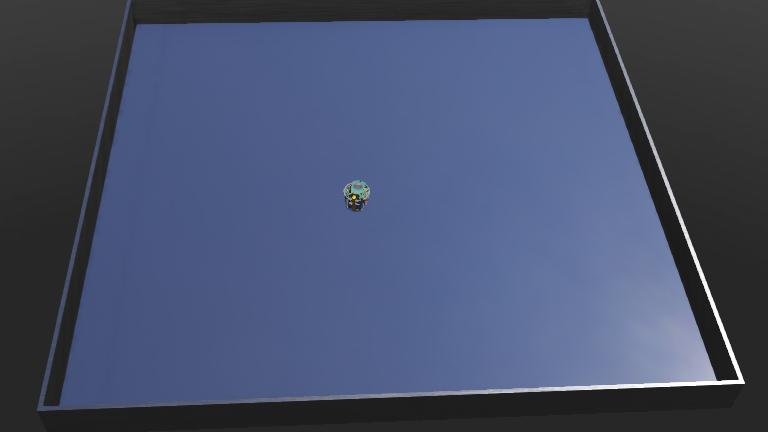
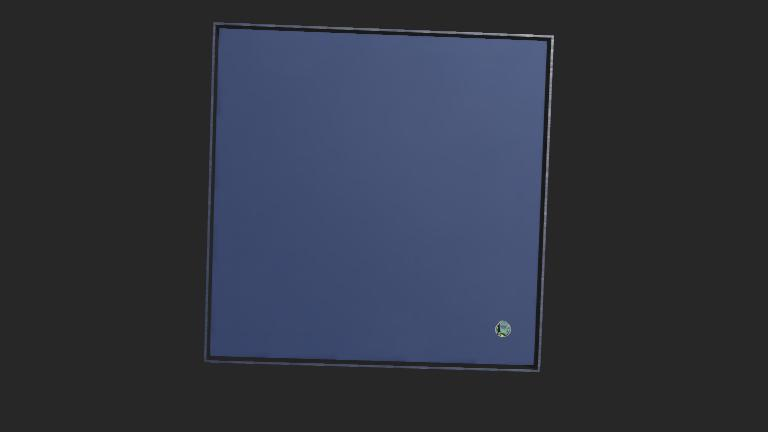
feat: turn towards goal

diff --git a/Projects/Project1/controllers/q1b/q1b.py b/Projects/Project1/controllers/q1b/q1b.py
@@ -49,6 +49,46 @@ class Controller(Robot):
         self.keyboard = self.getKeyboard()
         self.keyboard.enable(self.timeStep)
 
+
+    def turn_towards_goal(self):
+        # Get the current GPS coordinates
+        gps_values = self.gps.getValues()
+
+        # Calculate the angle between the current orientation and the direction to the goal
+        angle_to_goal = math.atan2(GOAL[1] - gps_values[1], GOAL[0] - gps_values[0])
+
+        # Get the current velocity vector
+        current_velocity = self.gps.getSpeedVector()
+
+        # Calculate the angle of the current velocity vector
+        current_angle = math.atan2(current_velocity[1], current_velocity[0])
+
+        # Calculate the angle difference between the current orientation and the goal
+        angle_difference = angle_to_goal - current_angle
+
+        # Use proportional control to adjust the velocities
+        angular_velocity = 2 * angle_difference
+
+        # Calculate the adjusted velocities
+        left_velocity = MAX_SPEED - angular_velocity
+        right_velocity = MAX_SPEED + angular_velocity
+        dist = math.sqrt( pow(gps_values[0] - GOAL[0], 2) + pow(gps_values[1] - GOAL[1],2))
+        if left_velocity > MAX_SPEED:
+            left_velocity = MAX_SPEED
+        if right_velocity > MAX_SPEED:
+            right_velocity = MAX_SPEED
+        if left_velocity < -MAX_SPEED:
+            left_velocity = -MAX_SPEED
+        if right_velocity < -MAX_SPEED:
+            right_velocity = -MAX_SPEED
+        # Set the adjusted velocities
+        if (math.fabs(dist - 0.01) < 0.01):
+            left_velocity = 0
+            right_velocity = 0
+            print(dist)
+        self.left_motor.setVelocity(left_velocity)
+        self.right_motor.setVelocity(right_velocity)
+
     def run(self):
         print("Press 'G' to read the GPS device's position")
         print("Press 'V' to read the GPS device's speed vector")
@@ -64,12 +104,14 @@ class Controller(Robot):
             
             gps_values = self.gps.getValues()
             dist = math.sqrt( pow(gps_values[0] - GOAL[0], 2) + pow(gps_values[1] - GOAL[1],2))
+            
             speed = dist * math.sqrt(2) * 0.74
             if (speed > MAX_SPEED):
                 speed = MAX_SPEED  
-            self.left_motor.setVelocity(dist)
-            self.right_motor.setVelocity(dist)
-
+            
+            self.left_motor.setVelocity(speed)
+            self.right_motor.setVelocity(speed)
+            self.turn_towards_goal()
 
 controller = Controller()
 controller.run()
